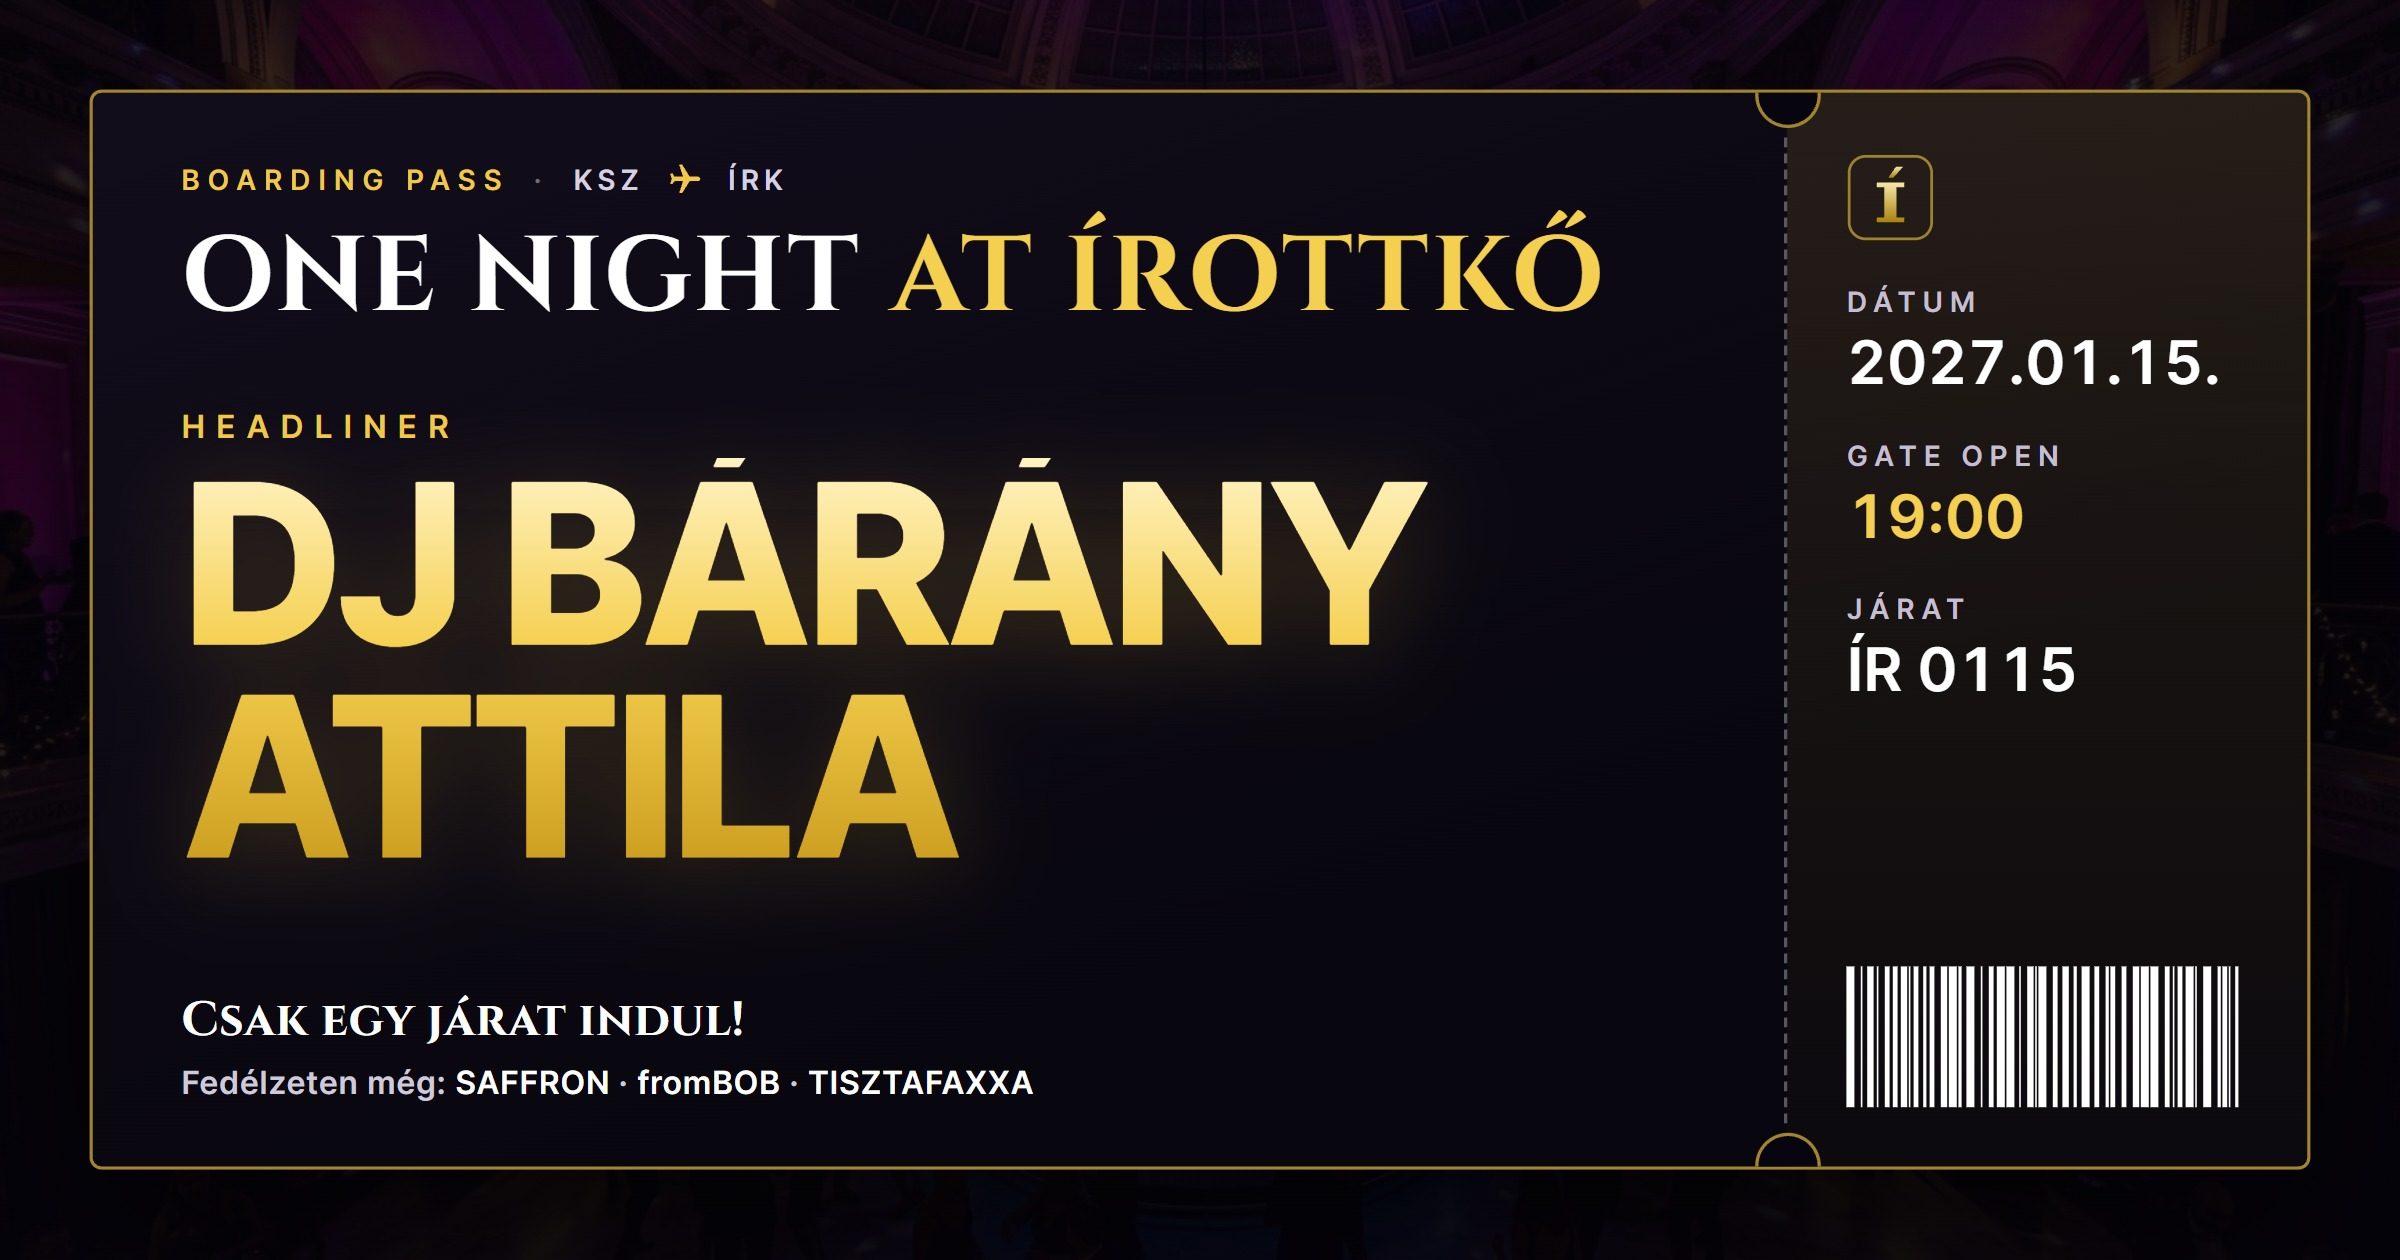
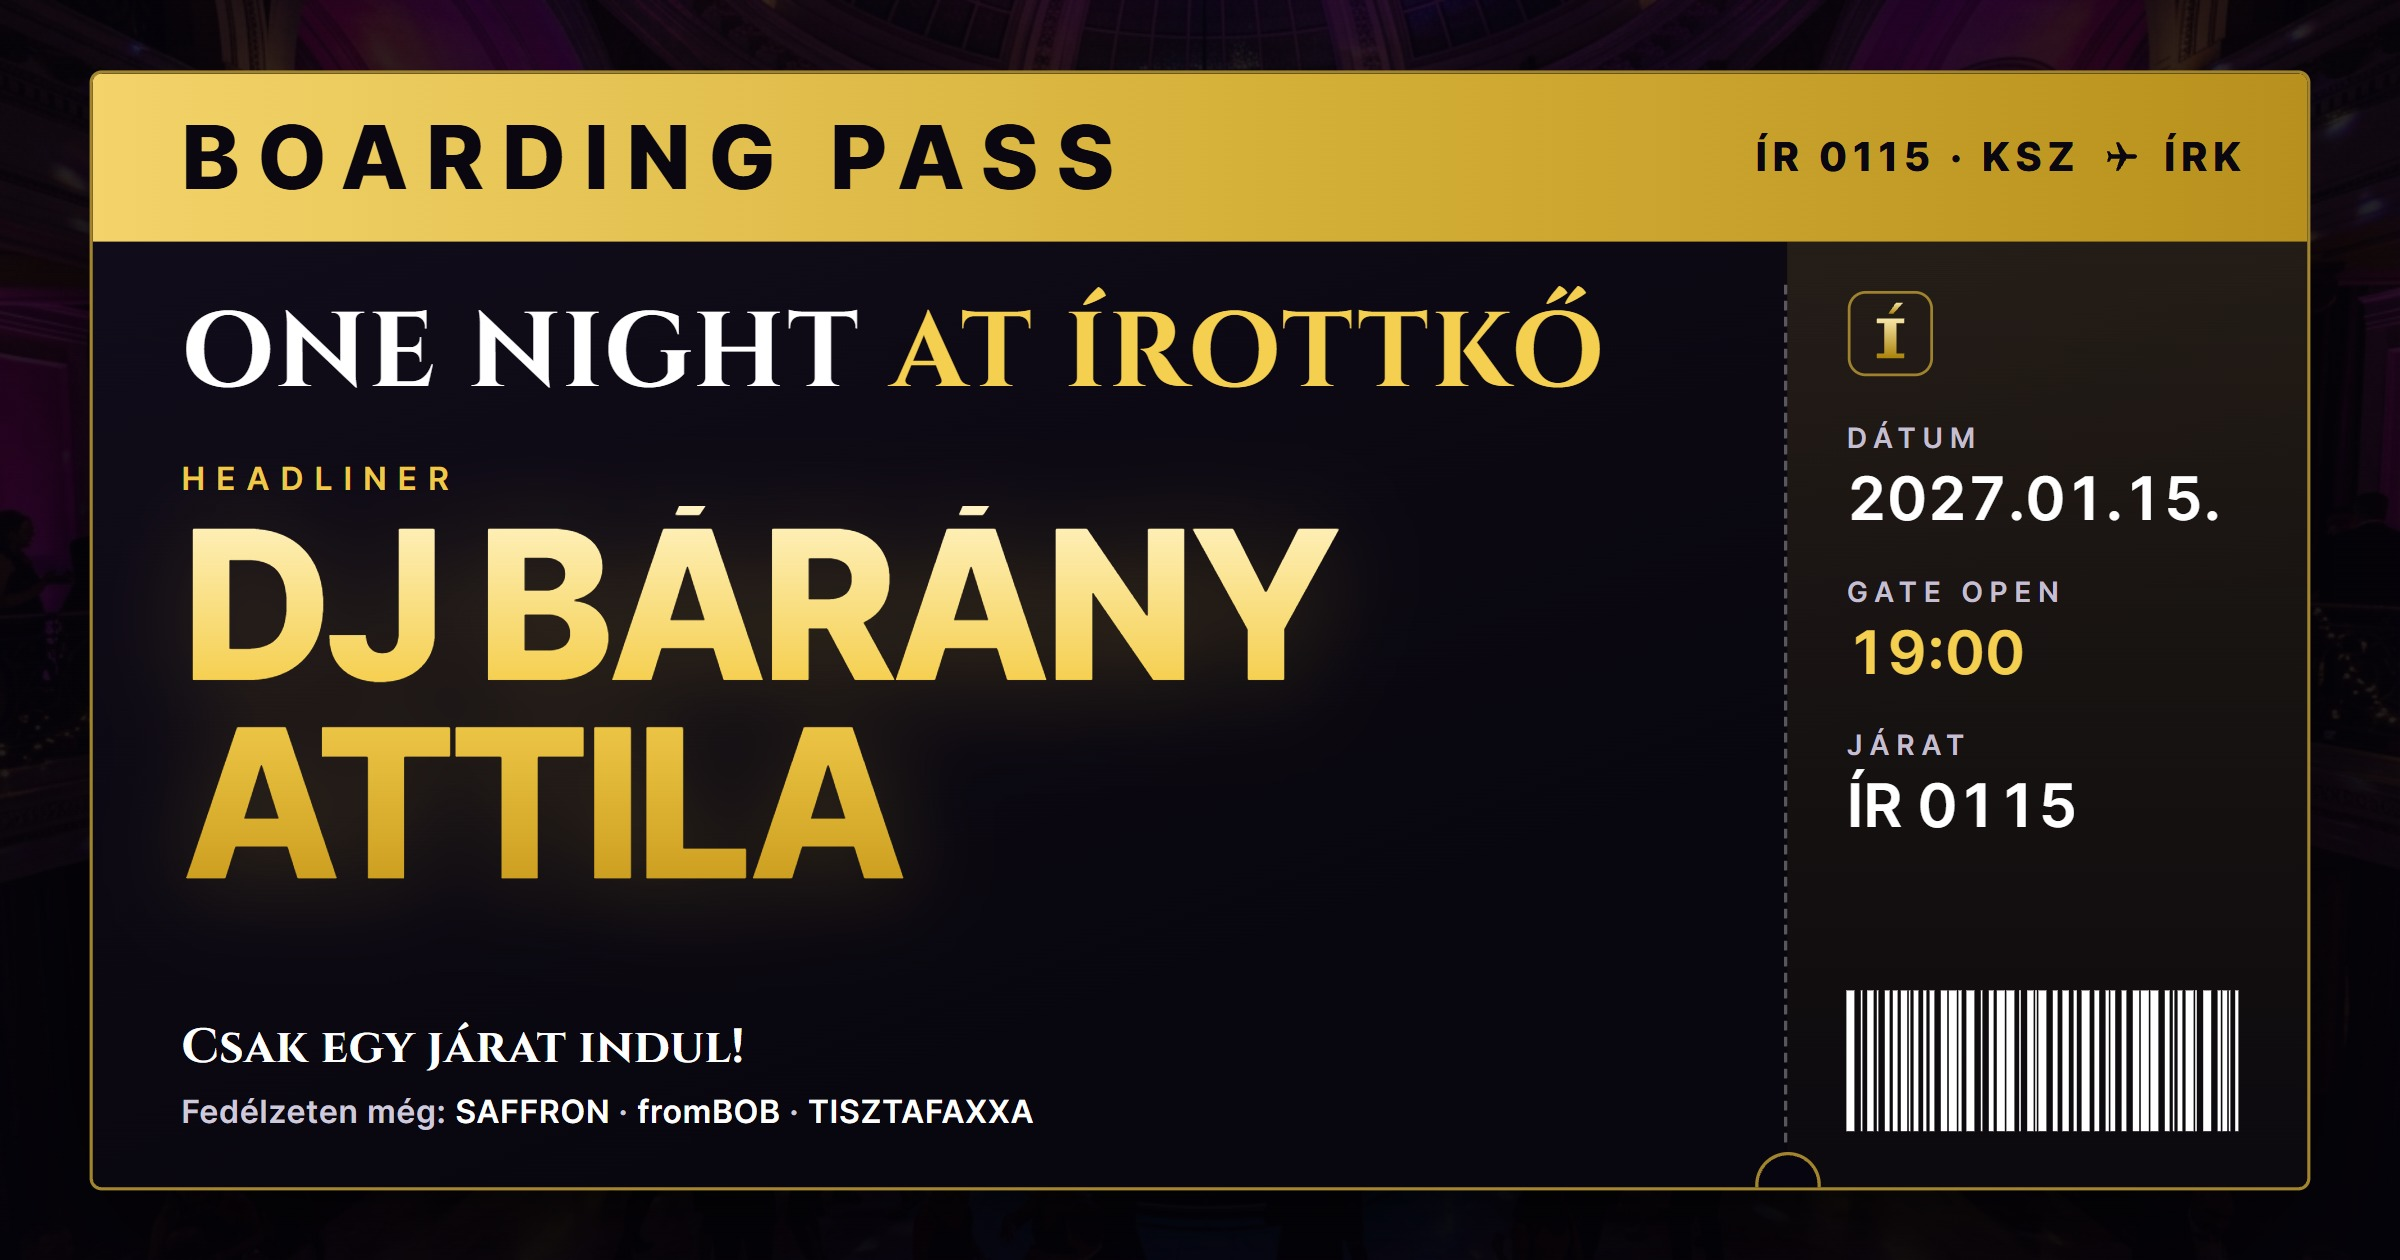
Share image: big gold BOARDING PASS header band

diff --git a/scripts/og/og.html b/scripts/og/og.html
@@ -27,16 +27,21 @@
       linear-gradient(180deg, rgba(5,3,10,.82), rgba(5,3,10,.93));
   }
   .pass {
-    position: relative; display: flex; width: 1110px; height: 540px; border-radius: 6px; overflow: hidden;
+    position: relative; display: flex; flex-direction: column; width: 1110px; height: 560px; border-radius: 6px; overflow: hidden;
     background: linear-gradient(160deg, #120d1b 0%, #08060e 70%);
     border: 2px solid rgba(212,175,55,.75);
     box-shadow: 0 40px 90px -30px rgba(0,0,0,.95);
   }
-  .main { flex: 1; min-width: 0; padding: 34px 44px 32px; display: flex; flex-direction: column; }
+  .body { flex: 1; display: flex; min-height: 0; }
+  .band { height: 84px; flex-shrink: 0; display: flex; align-items: center; justify-content: space-between; padding: 0 30px 0 44px;
+    background: linear-gradient(90deg, #f3d36a, #d4af37 55%, #b8901d); color: #0a0710; }
+  .band b { font-weight: 800; font-size: 44px; letter-spacing: .2em; }
+  .band .meta { display: flex; align-items: center; gap: 12px; font-weight: 800; font-size: 20px; letter-spacing: .14em; }
+  .main { flex: 1; min-width: 0; padding: 24px 44px 28px; display: flex; flex-direction: column; }
   .kick { display: flex; align-items: center; gap: 12px; font-size: 14px; font-weight: 600; letter-spacing: .28em; color: #f0c94a; }
   .kick .sep { color: #6f6a7c; }
   .kick .r { color: #d6d1e2; letter-spacing: .18em; }
-  .brand { margin-top: 14px; font-family: Cinzel; font-weight: 700; font-size: 53px; line-height: 1; letter-spacing: .03em; white-space: nowrap; color: #fff; }
+  .brand { margin-top: 6px; font-family: Cinzel; font-weight: 700; font-size: 53px; line-height: 1; letter-spacing: .03em; white-space: nowrap; color: #fff; }
   .brand span { color: #f5cf4f; }
   .brand small { font-family: Inter; font-size: 15px; font-weight: 600; letter-spacing: .3em; color: #f0c94a; margin-left: 14px; vertical-align: 3px; }
   .mono { width: 44px; height: 44px; }
@@ -45,9 +50,9 @@
   .route .dash { width: 90px; height: 3px; background: repeating-linear-gradient(90deg, #f0c94a 0 9px, transparent 9px 16px); }
   .route .city { font-size: 13px; letter-spacing: .24em; color: #b9b4c6; margin-left: 2px; }
 
-  .label { margin-top: 38px; font-size: 16px; font-weight: 600; letter-spacing: .34em; color: #f0c94a; }
+  .label { margin-top: 26px; font-size: 16px; font-weight: 600; letter-spacing: .34em; color: #f0c94a; }
   .headliner {
-    margin-top: 6px; font-weight: 800; font-size: 112px; line-height: .95; letter-spacing: -.035em;
+    margin-top: 4px; font-weight: 800; font-size: 104px; line-height: .95; letter-spacing: -.035em;
     background: linear-gradient(180deg, #fff3c4 0%, #f5cf4f 45%, #c99a1c 100%);
     -webkit-background-clip: text; background-clip: text; color: transparent;
     filter: drop-shadow(0 6px 24px rgba(212,175,55,.25));
@@ -58,9 +63,10 @@
   .others b { color: #fff; font-weight: 600; }
 
   .perf { position: relative; width: 0; border-left: 2px dashed rgba(255,255,255,.32); margin: 22px 0; }
+  .perf.top::before { display: none; }
   .perf::before, .perf::after { content: ''; position: absolute; left: -16px; width: 30px; height: 30px; border-radius: 50%; background: #070510; border: 2px solid rgba(212,175,55,.75); }
-  .perf::before { top: -38px; } .perf::after { bottom: -38px; }
-  .stub { width: 260px; flex-shrink: 0; padding: 30px 30px 30px; display: flex; flex-direction: column; background: linear-gradient(180deg, rgba(212,175,55,.12), rgba(212,175,55,.02)); }
+  .perf::before { top: -38px; } /* hidden under the band */ .perf::after { bottom: -38px; }
+  .stub { width: 260px; flex-shrink: 0; padding: 24px 30px 28px; display: flex; flex-direction: column; background: linear-gradient(180deg, rgba(212,175,55,.12), rgba(212,175,55,.02)); }
   .f { white-space: nowrap; }
   .f + .f { margin-top: 20px; }
   .f .k { font-size: 14px; font-weight: 600; letter-spacing: .24em; color: #c4bfd0; }
@@ -72,13 +78,14 @@
 </head>
 <body>
   <div class="pass">
+    <div class="band">
+      <b>BOARDING PASS</b>
+      <span class="meta">ÍR 0115 · KSZ
+        <svg width="18" height="18" viewBox="0 0 24 24" fill="#0a0710"><path d="M21 16v-2l-8-5V3.5a1.5 1.5 0 0 0-3 0V9l-8 5v2l8-2.5V19l-2 1.5V22l3.5-1 3.5 1v-1.5L13 19v-5.5z" transform="rotate(90 12 12)"/></svg>
+        ÍRK</span>
+    </div>
+    <div class="body">
     <div class="main">
-      <div class="kick">
-        <span>BOARDING PASS</span><span class="sep">·</span>
-        <span class="r">KSZ</span>
-        <svg width="18" height="18" viewBox="0 0 24 24" fill="#f0c94a"><path d="M21 16v-2l-8-5V3.5a1.5 1.5 0 0 0-3 0V9l-8 5v2l8-2.5V19l-2 1.5V22l3.5-1 3.5 1v-1.5L13 19v-5.5z" transform="rotate(90 12 12)"/></svg>
-        <span class="r">ÍRK</span>
-      </div>
       <div class="brand">ONE NIGHT <span>AT ÍROTTKŐ</span></div>
 
       <div class="label">HEADLINER</div>
@@ -90,7 +97,7 @@
       </div>
     </div>
 
-    <div class="perf"></div>
+    <div class="perf top"></div>
 
     <div class="stub">
       <svg style="width:44px;height:44px;margin-bottom:22px" viewBox="0 0 64 64"><defs><linearGradient id="g" x1="0" y1="0" x2="0" y2="1"><stop offset="0" stop-color="#f7e7a9"/><stop offset="1" stop-color="#aa820a"/></linearGradient></defs><rect x="2" y="2" width="60" height="60" rx="12" fill="none" stroke="#d4af37" stroke-opacity=".7" stroke-width="2"/><path fill="url(#g)" d="M22 21h20v3.5h-5.5v22h5.5V50H22v-3.5h5.5v-22H22z"/><path fill="url(#g)" d="M30.5 17.5 36 9.5h5.5l-7.5 8z"/></svg>
@@ -98,6 +105,7 @@
       <div class="f"><div class="k">GATE OPEN</div><div class="v gold">19:00</div></div>
       <div class="f"><div class="k">JÁRAT</div><div class="v">ÍR 0115</div></div>
       <div class="bars" id="bars"></div>
+    </div>
     </div>
   </div>
 <script>

diff --git a/index.html b/index.html
@@ -15,7 +15,7 @@
     <meta property="og:url" content="https://irottko.netlify.app/" />
     <meta property="og:title" content="ONE NIGHT AT ÍROTTKŐ – Csak egy járat indul!" />
     <meta property="og:description" content="2027. január 15. · Hotel Írottkő, Kőszeg · Gate open 19:00. Négy fellépő, három bár a fedélzeten. Headliner: DJ Bárány Attila." />
-    <meta property="og:image" content="https://irottko.netlify.app/og/og-boarding-pass.jpg?v=5" />
+    <meta property="og:image" content="https://irottko.netlify.app/og/og-boarding-pass.jpg?v=6" />
     <meta property="og:image:width" content="2400" />
     <meta property="og:image:height" content="1260" />
     <meta property="og:image:type" content="image/jpeg" />
